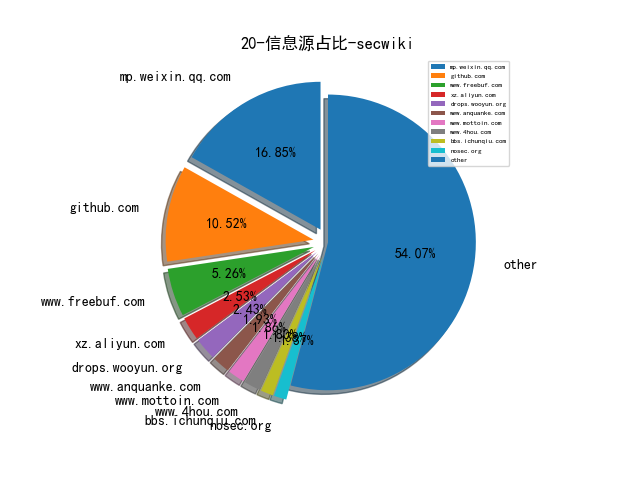
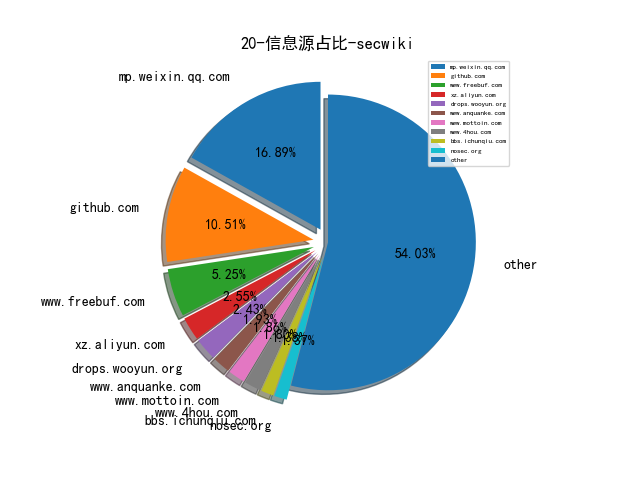
2021-03-26 00:03:00

diff --git a/README_20.md b/README_20.md
@@ -15,20 +15,20 @@
 | nickname_english | weixin_no | title | url| 
 | --- | --- | --- | ---| 
 | caoz的梦呓 | caozsay | 浅谈风控的架构 | https://mp.weixin.qq.com/s/GAeau8TJEWZtrv5CHlSHNQ | 2| 
-| FCC30+ | Fcc_198905 | 商业银行零信任安全架构研究 | https://mp.weixin.qq.com/s/vpXdOOKFlZDioXDQnn0GLg | 2| 
-| 云网漫步 | gh_5d1c9da4b05e | 谈谈国外互联网公司的骨干网 | https://mp.weixin.qq.com/s/jET_vZUtYS8kQD8H-5j5KA | 1| 
-| 学蚁致用 | sudo_i | 负载均衡下的 WebShell 连接 | https://mp.weixin.qq.com/s/4Bmz_fuu0yrLMK1oBKKtRA | 4| 
-| 安全学术圈 | secquan | All Your DNS Records Point to Us | https://mp.weixin.qq.com/s/7-4QBjp_TAX74bWidegXHA | 61| 
-| 腾讯技术 | gh_6866e1848f15 | 如何在技术领域产生自己的影响力 | https://mp.weixin.qq.com/s/Himw3mpv7fDy96bdJQA5xg | 1| 
 | Akamai | hotline4006091609 | 揭秘 , 新型僵尸网络隐匿方式 | https://mp.weixin.qq.com/s/OxLkZyvI2AASVrYUR4GPJg | 1| 
+| FCC30+ | Fcc_198905 | 商业银行零信任安全架构研究 | https://mp.weixin.qq.com/s/vpXdOOKFlZDioXDQnn0GLg | 2| 
 | RapidDNS | gh_6327c9075859 | RapidDNS网站在SRC漏洞挖掘中的一个思路 | https://mp.weixin.qq.com/s/bTA0DVfmPVArYXG5MHRAbg | 3| 
 | 丁爸 情报分析师的工具箱 | dingba2016 | 【工具】一个网络安全从业者的专业搜索引擎 | https://mp.weixin.qq.com/s/D8JhdhzY6cpShKX2J-t_rQ | 16| 
-| 微步在线研究响应中心 | gh_c108d4d389bf | 专题报告 , 流行窃密类木马分析（下） | https://mp.weixin.qq.com/s/R4sOXCP-_T3NGN5d7Ybl6Q | 6| 
+| 云网漫步 | gh_5d1c9da4b05e | 谈谈国外互联网公司的骨干网 | https://mp.weixin.qq.com/s/jET_vZUtYS8kQD8H-5j5KA | 1| 
 | 合天网安实验室 | hee_tian | 对某cms的一次审计思路 | https://mp.weixin.qq.com/s/aps0k7O6BO-UQ0gXbTN3KQ | 2| 
+| 奇安信 CERT | gh_64040028303e | Apache Solr 组件安全概览 | https://mp.weixin.qq.com/s/3WuWUGO61gM0dBpwqTfenQ | 5| 
+| 学蚁致用 | sudo_i | 负载均衡下的 WebShell 连接 | https://mp.weixin.qq.com/s/4Bmz_fuu0yrLMK1oBKKtRA | 4| 
+| 安全学术圈 | secquan | All Your DNS Records Point to Us | https://mp.weixin.qq.com/s/7-4QBjp_TAX74bWidegXHA | 61| 
+| 微步在线研究响应中心 | gh_c108d4d389bf | 专题报告 , 流行窃密类木马分析（下） | https://mp.weixin.qq.com/s/R4sOXCP-_T3NGN5d7Ybl6Q | 6| 
 | 绿盟科技研究通讯 | nsfocus_research | 知识图谱技术如何赋能智能安全运营 | https://mp.weixin.qq.com/s/qOuvPv8cm1S-jA-gqH1hZg | 39| 
+| 腾讯技术 | gh_6866e1848f15 | 如何在技术领域产生自己的影响力 | https://mp.weixin.qq.com/s/Himw3mpv7fDy96bdJQA5xg | 1| 
 | debugeeker | gh_ed0f7fa0bfe0 | 最后防线：osquery功能与实现 | https://mp.weixin.qq.com/s/PvnLnn1gDcl_X4fyocyPrA | 1| 
 | 360Quake空间测绘 | Quake360 | 网络测绘 , 立体呈现网络事件细节知多少？ | https://mp.weixin.qq.com/s/LwWMfOMqSgArtv9jlfaPRw | 3| 
-| 奇安信 CERT | gh_64040028303e | 小姐姐带你看Shiro反序列化漏洞利用 | https://mp.weixin.qq.com/s/WDmj4-2lB-hlf_Fm_wDiOg | 5| 
 | SECISLAND安全官 | SECSOSO | 资产管理的难点 | https://mp.weixin.qq.com/s/DqtIzNdDvB7pYjXmoP1quQ | 1| 
 | 前端热点分析 | Web-2017 | JavaScript反调试技巧 | https://mp.weixin.qq.com/s/NMJd91AmuGEANz00sZELfw | 1| 
 | ChaMd5安全团队 | chamd5sec | D^3CTF-WriteUp | https://mp.weixin.qq.com/s/oOf0RI6P2hEwtPXWP6yU4Q | 45| 

diff --git a/README_2021.md b/README_2021.md
@@ -15,20 +15,20 @@
 | nickname_english | weixin_no | title | url| 
 | --- | --- | --- | ---| 
 | caoz的梦呓 | caozsay | 浅谈风控的架构 | https://mp.weixin.qq.com/s/GAeau8TJEWZtrv5CHlSHNQ | 1| 
-| FCC30+ | Fcc_198905 | 商业银行零信任安全架构研究 | https://mp.weixin.qq.com/s/vpXdOOKFlZDioXDQnn0GLg | 2| 
-| 云网漫步 | gh_5d1c9da4b05e | 谈谈国外互联网公司的骨干网 | https://mp.weixin.qq.com/s/jET_vZUtYS8kQD8H-5j5KA | 1| 
-| 学蚁致用 | sudo_i | 负载均衡下的 WebShell 连接 | https://mp.weixin.qq.com/s/4Bmz_fuu0yrLMK1oBKKtRA | 1| 
-| 安全学术圈 | secquan | All Your DNS Records Point to Us | https://mp.weixin.qq.com/s/7-4QBjp_TAX74bWidegXHA | 8| 
-| 腾讯技术 | gh_6866e1848f15 | 如何在技术领域产生自己的影响力 | https://mp.weixin.qq.com/s/Himw3mpv7fDy96bdJQA5xg | 1| 
 | Akamai | hotline4006091609 | 揭秘 , 新型僵尸网络隐匿方式 | https://mp.weixin.qq.com/s/OxLkZyvI2AASVrYUR4GPJg | 1| 
+| FCC30+ | Fcc_198905 | 商业银行零信任安全架构研究 | https://mp.weixin.qq.com/s/vpXdOOKFlZDioXDQnn0GLg | 2| 
 | RapidDNS | gh_6327c9075859 | RapidDNS网站在SRC漏洞挖掘中的一个思路 | https://mp.weixin.qq.com/s/bTA0DVfmPVArYXG5MHRAbg | 3| 
 | 丁爸 情报分析师的工具箱 | dingba2016 | 【工具】一个网络安全从业者的专业搜索引擎 | https://mp.weixin.qq.com/s/D8JhdhzY6cpShKX2J-t_rQ | 1| 
-| 微步在线研究响应中心 | gh_c108d4d389bf | 专题报告 , 流行窃密类木马分析（下） | https://mp.weixin.qq.com/s/R4sOXCP-_T3NGN5d7Ybl6Q | 4| 
+| 云网漫步 | gh_5d1c9da4b05e | 谈谈国外互联网公司的骨干网 | https://mp.weixin.qq.com/s/jET_vZUtYS8kQD8H-5j5KA | 1| 
 | 合天网安实验室 | hee_tian | 对某cms的一次审计思路 | https://mp.weixin.qq.com/s/aps0k7O6BO-UQ0gXbTN3KQ | 2| 
+| 奇安信 CERT | gh_64040028303e | Apache Solr 组件安全概览 | https://mp.weixin.qq.com/s/3WuWUGO61gM0dBpwqTfenQ | 2| 
+| 学蚁致用 | sudo_i | 负载均衡下的 WebShell 连接 | https://mp.weixin.qq.com/s/4Bmz_fuu0yrLMK1oBKKtRA | 1| 
+| 安全学术圈 | secquan | All Your DNS Records Point to Us | https://mp.weixin.qq.com/s/7-4QBjp_TAX74bWidegXHA | 8| 
+| 微步在线研究响应中心 | gh_c108d4d389bf | 专题报告 , 流行窃密类木马分析（下） | https://mp.weixin.qq.com/s/R4sOXCP-_T3NGN5d7Ybl6Q | 4| 
 | 绿盟科技研究通讯 | nsfocus_research | 知识图谱技术如何赋能智能安全运营 | https://mp.weixin.qq.com/s/qOuvPv8cm1S-jA-gqH1hZg | 3| 
+| 腾讯技术 | gh_6866e1848f15 | 如何在技术领域产生自己的影响力 | https://mp.weixin.qq.com/s/Himw3mpv7fDy96bdJQA5xg | 1| 
 | debugeeker | gh_ed0f7fa0bfe0 | 最后防线：osquery功能与实现 | https://mp.weixin.qq.com/s/PvnLnn1gDcl_X4fyocyPrA | 1| 
 | 360Quake空间测绘 | Quake360 | 网络测绘 , 立体呈现网络事件细节知多少？ | https://mp.weixin.qq.com/s/LwWMfOMqSgArtv9jlfaPRw | 2| 
-| 奇安信 CERT | gh_64040028303e | 小姐姐带你看Shiro反序列化漏洞利用 | https://mp.weixin.qq.com/s/WDmj4-2lB-hlf_Fm_wDiOg | 2| 
 | SECISLAND安全官 | SECSOSO | 资产管理的难点 | https://mp.weixin.qq.com/s/DqtIzNdDvB7pYjXmoP1quQ | 1| 
 | 前端热点分析 | Web-2017 | JavaScript反调试技巧 | https://mp.weixin.qq.com/s/NMJd91AmuGEANz00sZELfw | 1| 
 | ChaMd5安全团队 | chamd5sec | D^3CTF-WriteUp | https://mp.weixin.qq.com/s/oOf0RI6P2hEwtPXWP6yU4Q | 11| 

diff --git a/README.md b/README.md
@@ -15,20 +15,20 @@
 | nickname_english | weixin_no | title | url| 
 | --- | --- | --- | ---| 
 | caoz的梦呓 | caozsay | 浅谈风控的架构 | https://mp.weixin.qq.com/s/GAeau8TJEWZtrv5CHlSHNQ | 1| 
-| FCC30+ | Fcc_198905 | 商业银行零信任安全架构研究 | https://mp.weixin.qq.com/s/vpXdOOKFlZDioXDQnn0GLg | 1| 
-| 云网漫步 | gh_5d1c9da4b05e | 谈谈国外互联网公司的骨干网 | https://mp.weixin.qq.com/s/jET_vZUtYS8kQD8H-5j5KA | 1| 
-| 学蚁致用 | sudo_i | 负载均衡下的 WebShell 连接 | https://mp.weixin.qq.com/s/4Bmz_fuu0yrLMK1oBKKtRA | 1| 
-| 安全学术圈 | secquan | All Your DNS Records Point to Us | https://mp.weixin.qq.com/s/7-4QBjp_TAX74bWidegXHA | 1| 
-| 腾讯技术 | gh_6866e1848f15 | 如何在技术领域产生自己的影响力 | https://mp.weixin.qq.com/s/Himw3mpv7fDy96bdJQA5xg | 1| 
 | Akamai | hotline4006091609 | 揭秘 , 新型僵尸网络隐匿方式 | https://mp.weixin.qq.com/s/OxLkZyvI2AASVrYUR4GPJg | 1| 
+| FCC30+ | Fcc_198905 | 商业银行零信任安全架构研究 | https://mp.weixin.qq.com/s/vpXdOOKFlZDioXDQnn0GLg | 1| 
 | RapidDNS | gh_6327c9075859 | RapidDNS网站在SRC漏洞挖掘中的一个思路 | https://mp.weixin.qq.com/s/bTA0DVfmPVArYXG5MHRAbg | 3| 
 | 丁爸 情报分析师的工具箱 | dingba2016 | 【工具】一个网络安全从业者的专业搜索引擎 | https://mp.weixin.qq.com/s/D8JhdhzY6cpShKX2J-t_rQ | 1| 
-| 微步在线研究响应中心 | gh_c108d4d389bf | 专题报告 , 流行窃密类木马分析（下） | https://mp.weixin.qq.com/s/R4sOXCP-_T3NGN5d7Ybl6Q | 2| 
+| 云网漫步 | gh_5d1c9da4b05e | 谈谈国外互联网公司的骨干网 | https://mp.weixin.qq.com/s/jET_vZUtYS8kQD8H-5j5KA | 1| 
 | 合天网安实验室 | hee_tian | 对某cms的一次审计思路 | https://mp.weixin.qq.com/s/aps0k7O6BO-UQ0gXbTN3KQ | 2| 
+| 奇安信 CERT | gh_64040028303e | Apache Solr 组件安全概览 | https://mp.weixin.qq.com/s/3WuWUGO61gM0dBpwqTfenQ | 2| 
+| 学蚁致用 | sudo_i | 负载均衡下的 WebShell 连接 | https://mp.weixin.qq.com/s/4Bmz_fuu0yrLMK1oBKKtRA | 1| 
+| 安全学术圈 | secquan | All Your DNS Records Point to Us | https://mp.weixin.qq.com/s/7-4QBjp_TAX74bWidegXHA | 1| 
+| 微步在线研究响应中心 | gh_c108d4d389bf | 专题报告 , 流行窃密类木马分析（下） | https://mp.weixin.qq.com/s/R4sOXCP-_T3NGN5d7Ybl6Q | 2| 
 | 绿盟科技研究通讯 | nsfocus_research | 知识图谱技术如何赋能智能安全运营 | https://mp.weixin.qq.com/s/qOuvPv8cm1S-jA-gqH1hZg | 1| 
+| 腾讯技术 | gh_6866e1848f15 | 如何在技术领域产生自己的影响力 | https://mp.weixin.qq.com/s/Himw3mpv7fDy96bdJQA5xg | 1| 
 | debugeeker | gh_ed0f7fa0bfe0 | 最后防线：osquery功能与实现 | https://mp.weixin.qq.com/s/PvnLnn1gDcl_X4fyocyPrA | 1| 
 | 360Quake空间测绘 | Quake360 | 网络测绘 , 立体呈现网络事件细节知多少？ | https://mp.weixin.qq.com/s/LwWMfOMqSgArtv9jlfaPRw | 1| 
-| 奇安信 CERT | gh_64040028303e | 小姐姐带你看Shiro反序列化漏洞利用 | https://mp.weixin.qq.com/s/WDmj4-2lB-hlf_Fm_wDiOg | 2| 
 | SECISLAND安全官 | SECSOSO | 资产管理的难点 | https://mp.weixin.qq.com/s/DqtIzNdDvB7pYjXmoP1quQ | 1| 
 | 前端热点分析 | Web-2017 | JavaScript反调试技巧 | https://mp.weixin.qq.com/s/NMJd91AmuGEANz00sZELfw | 1| 
 | ChaMd5安全团队 | chamd5sec | D^3CTF-WriteUp | https://mp.weixin.qq.com/s/oOf0RI6P2hEwtPXWP6yU4Q | 3| 

diff --git a/README_202103.md b/README_202103.md
@@ -15,20 +15,20 @@
 | nickname_english | weixin_no | title | url| 
 | --- | --- | --- | ---| 
 | caoz的梦呓 | caozsay | 浅谈风控的架构 | https://mp.weixin.qq.com/s/GAeau8TJEWZtrv5CHlSHNQ | 1| 
-| FCC30+ | Fcc_198905 | 商业银行零信任安全架构研究 | https://mp.weixin.qq.com/s/vpXdOOKFlZDioXDQnn0GLg | 1| 
-| 云网漫步 | gh_5d1c9da4b05e | 谈谈国外互联网公司的骨干网 | https://mp.weixin.qq.com/s/jET_vZUtYS8kQD8H-5j5KA | 1| 
-| 学蚁致用 | sudo_i | 负载均衡下的 WebShell 连接 | https://mp.weixin.qq.com/s/4Bmz_fuu0yrLMK1oBKKtRA | 1| 
-| 安全学术圈 | secquan | All Your DNS Records Point to Us | https://mp.weixin.qq.com/s/7-4QBjp_TAX74bWidegXHA | 1| 
-| 腾讯技术 | gh_6866e1848f15 | 如何在技术领域产生自己的影响力 | https://mp.weixin.qq.com/s/Himw3mpv7fDy96bdJQA5xg | 1| 
 | Akamai | hotline4006091609 | 揭秘 , 新型僵尸网络隐匿方式 | https://mp.weixin.qq.com/s/OxLkZyvI2AASVrYUR4GPJg | 1| 
+| FCC30+ | Fcc_198905 | 商业银行零信任安全架构研究 | https://mp.weixin.qq.com/s/vpXdOOKFlZDioXDQnn0GLg | 1| 
 | RapidDNS | gh_6327c9075859 | RapidDNS网站在SRC漏洞挖掘中的一个思路 | https://mp.weixin.qq.com/s/bTA0DVfmPVArYXG5MHRAbg | 3| 
 | 丁爸 情报分析师的工具箱 | dingba2016 | 【工具】一个网络安全从业者的专业搜索引擎 | https://mp.weixin.qq.com/s/D8JhdhzY6cpShKX2J-t_rQ | 1| 
-| 微步在线研究响应中心 | gh_c108d4d389bf | 专题报告 , 流行窃密类木马分析（下） | https://mp.weixin.qq.com/s/R4sOXCP-_T3NGN5d7Ybl6Q | 2| 
+| 云网漫步 | gh_5d1c9da4b05e | 谈谈国外互联网公司的骨干网 | https://mp.weixin.qq.com/s/jET_vZUtYS8kQD8H-5j5KA | 1| 
 | 合天网安实验室 | hee_tian | 对某cms的一次审计思路 | https://mp.weixin.qq.com/s/aps0k7O6BO-UQ0gXbTN3KQ | 2| 
+| 奇安信 CERT | gh_64040028303e | Apache Solr 组件安全概览 | https://mp.weixin.qq.com/s/3WuWUGO61gM0dBpwqTfenQ | 2| 
+| 学蚁致用 | sudo_i | 负载均衡下的 WebShell 连接 | https://mp.weixin.qq.com/s/4Bmz_fuu0yrLMK1oBKKtRA | 1| 
+| 安全学术圈 | secquan | All Your DNS Records Point to Us | https://mp.weixin.qq.com/s/7-4QBjp_TAX74bWidegXHA | 1| 
+| 微步在线研究响应中心 | gh_c108d4d389bf | 专题报告 , 流行窃密类木马分析（下） | https://mp.weixin.qq.com/s/R4sOXCP-_T3NGN5d7Ybl6Q | 2| 
 | 绿盟科技研究通讯 | nsfocus_research | 知识图谱技术如何赋能智能安全运营 | https://mp.weixin.qq.com/s/qOuvPv8cm1S-jA-gqH1hZg | 1| 
+| 腾讯技术 | gh_6866e1848f15 | 如何在技术领域产生自己的影响力 | https://mp.weixin.qq.com/s/Himw3mpv7fDy96bdJQA5xg | 1| 
 | debugeeker | gh_ed0f7fa0bfe0 | 最后防线：osquery功能与实现 | https://mp.weixin.qq.com/s/PvnLnn1gDcl_X4fyocyPrA | 1| 
 | 360Quake空间测绘 | Quake360 | 网络测绘 , 立体呈现网络事件细节知多少？ | https://mp.weixin.qq.com/s/LwWMfOMqSgArtv9jlfaPRw | 1| 
-| 奇安信 CERT | gh_64040028303e | 小姐姐带你看Shiro反序列化漏洞利用 | https://mp.weixin.qq.com/s/WDmj4-2lB-hlf_Fm_wDiOg | 2| 
 | SECISLAND安全官 | SECSOSO | 资产管理的难点 | https://mp.weixin.qq.com/s/DqtIzNdDvB7pYjXmoP1quQ | 1| 
 | 前端热点分析 | Web-2017 | JavaScript反调试技巧 | https://mp.weixin.qq.com/s/NMJd91AmuGEANz00sZELfw | 1| 
 | ChaMd5安全团队 | chamd5sec | D^3CTF-WriteUp | https://mp.weixin.qq.com/s/oOf0RI6P2hEwtPXWP6yU4Q | 3| 
